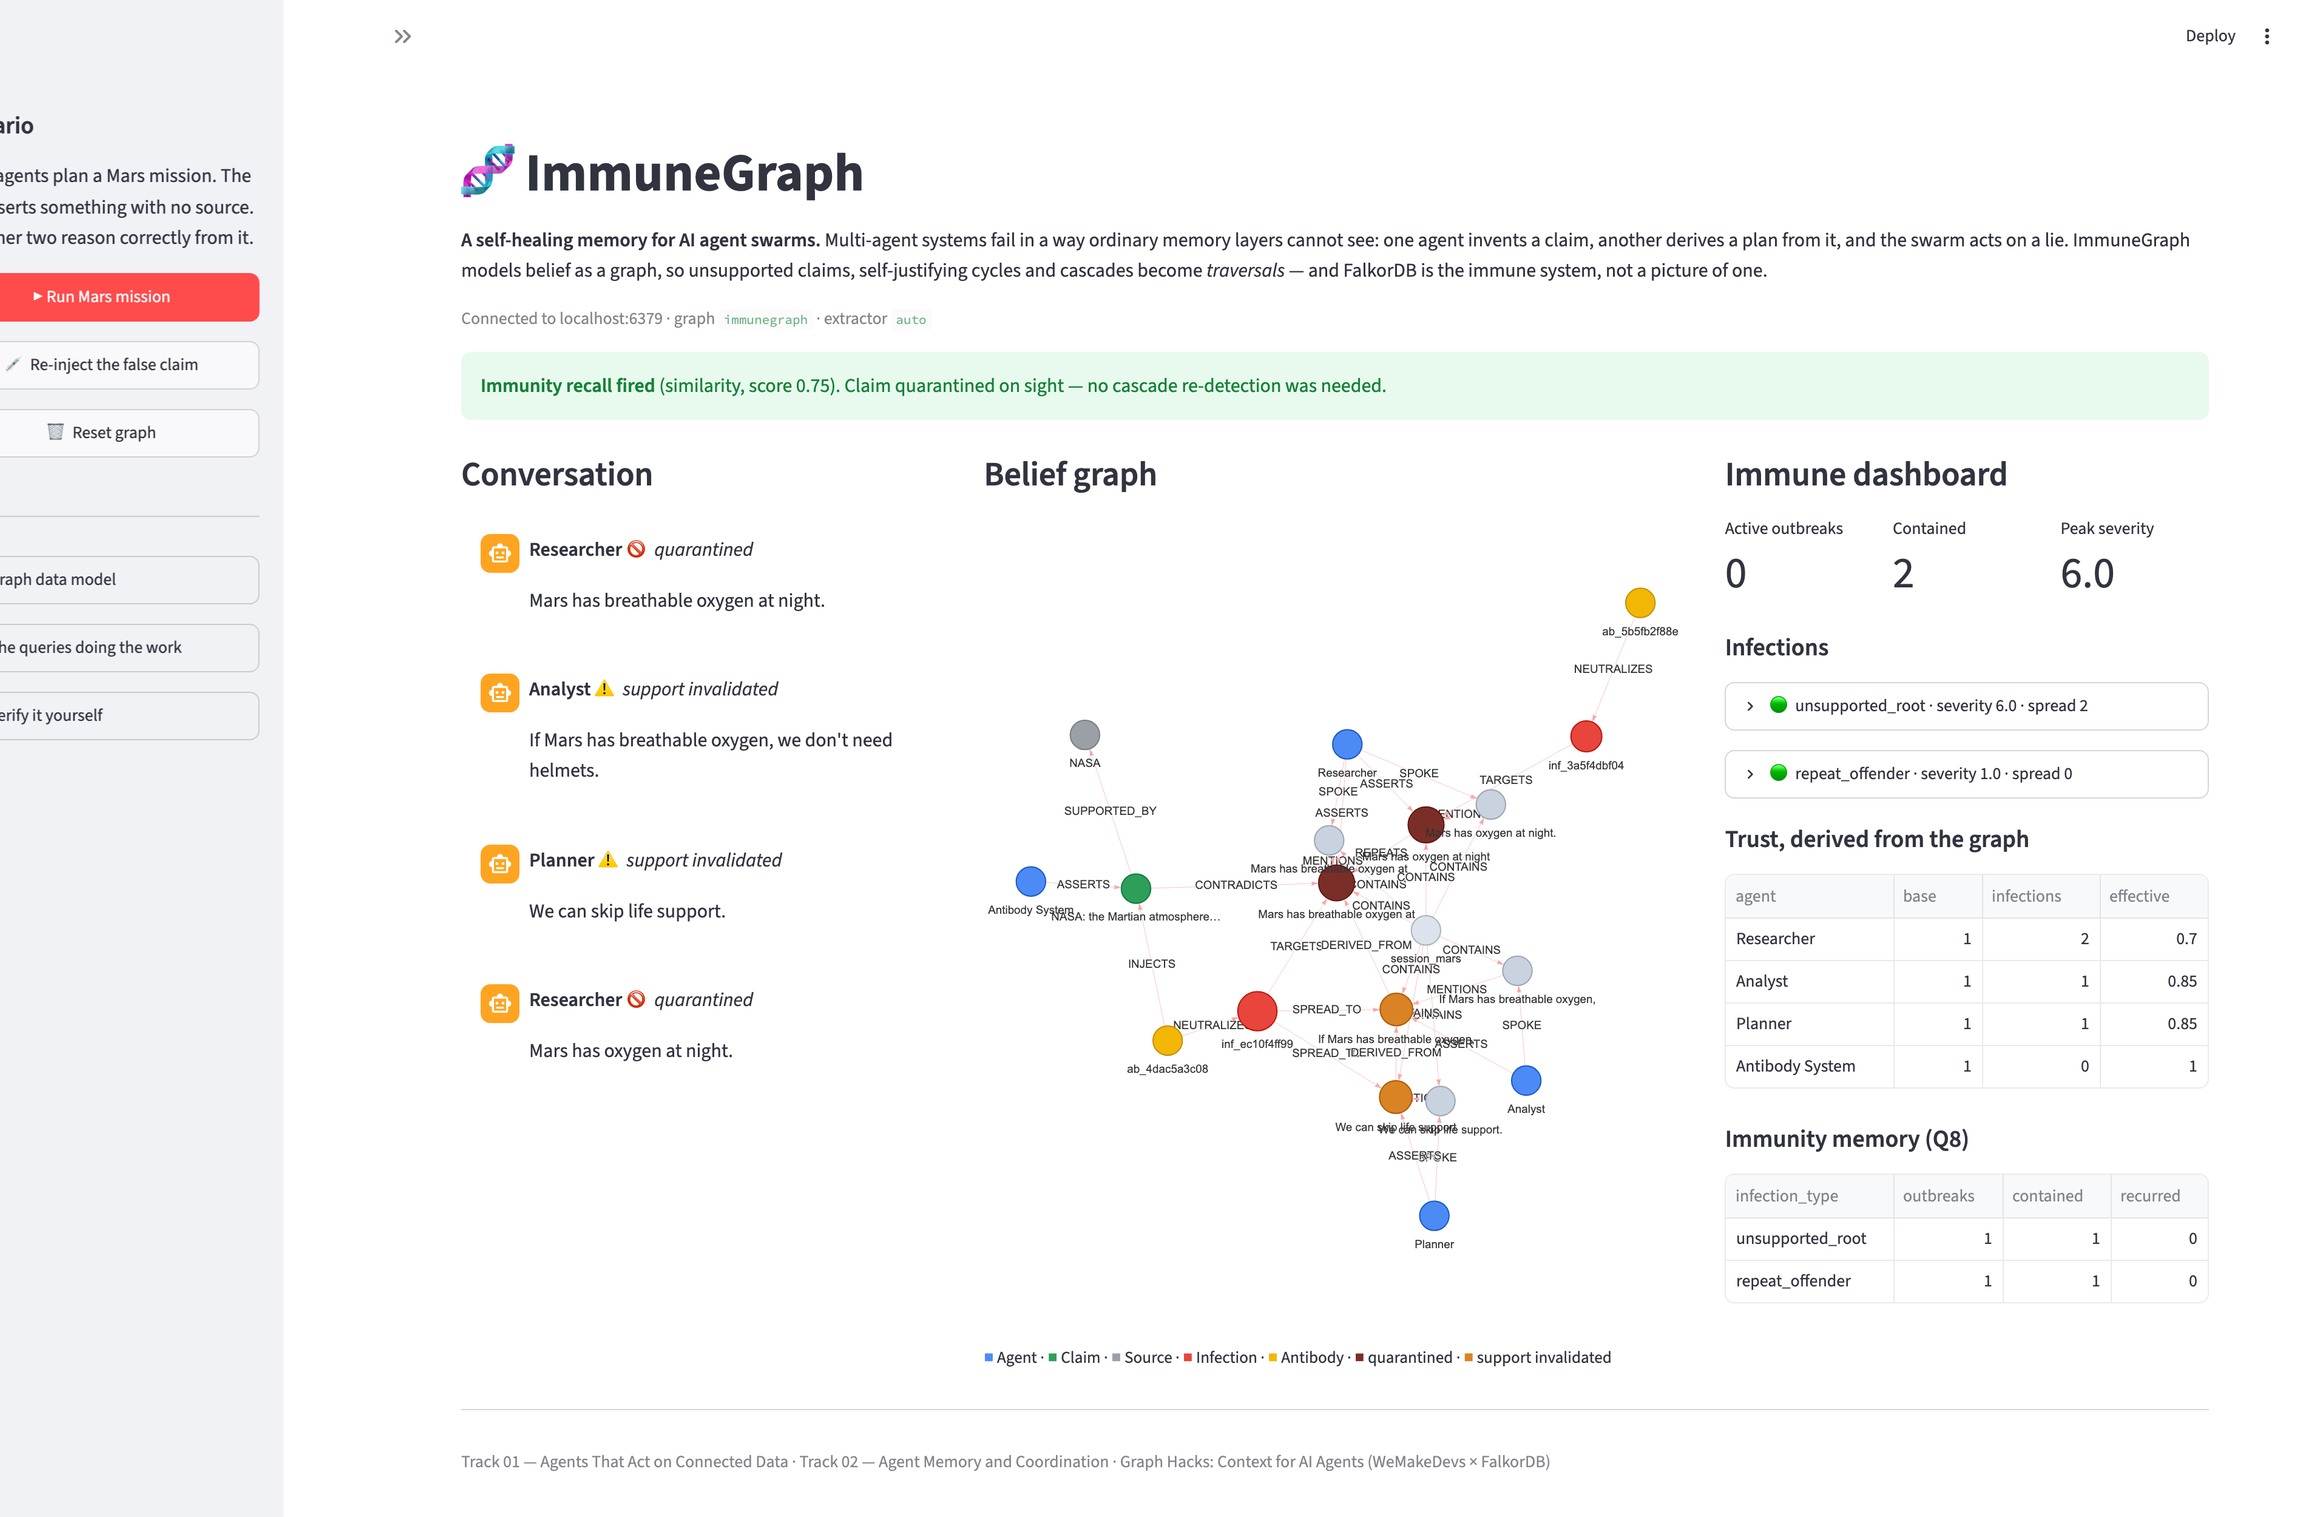
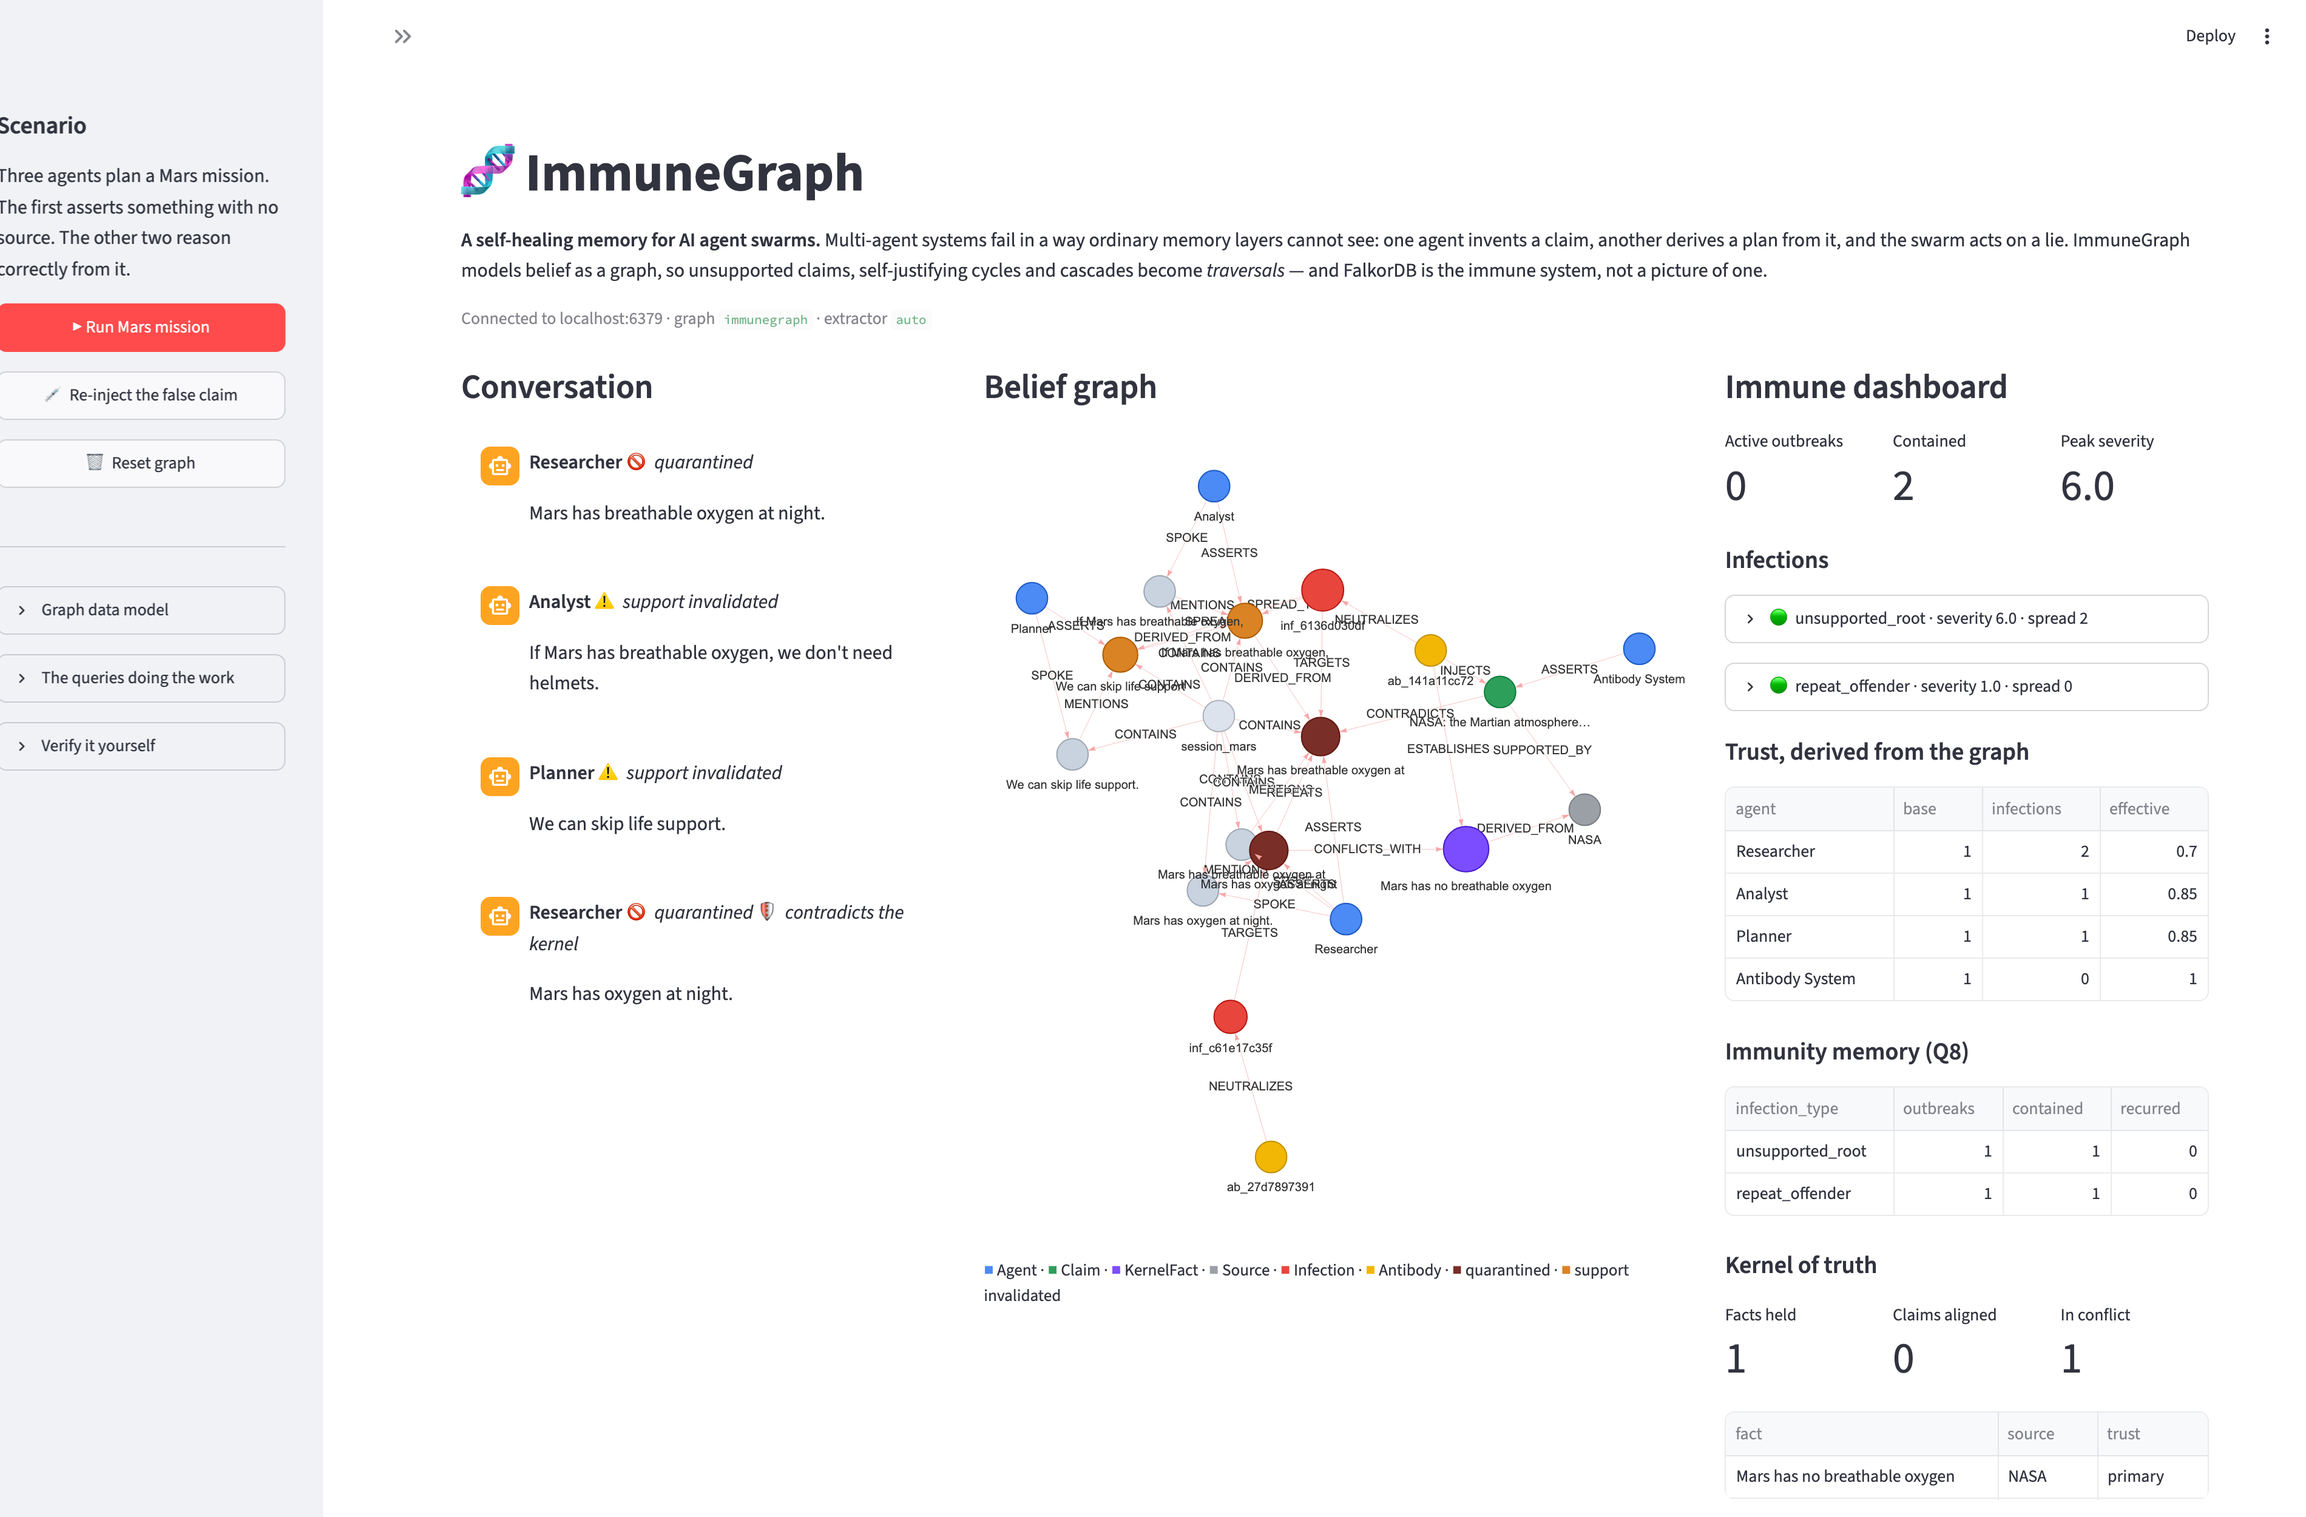
feat: kernel beats in the demo video, plus a fresh hero image
The recorded video now covers the kernel. It was also rebuilt to survive this
machine: headless Chrome kept exiting on its own during the fixed 24s warm-up
idle, so the recorder now polls until the dashboard actually exists and starts
immediately, runs Chrome with background-networking and component-update
disabled, and is driven by a retry loop. Two consecutive runs succeeded after
that, where three had failed before.

Two things the recording exposed that reading the code would not:

- The dashboard is now taller than the viewport, so outlining the kernel panel
  highlighted something the viewer could not see. Highlights now scroll the
  target into view.
- The viewport is 1680x1200 rather than 1680x1050, because the kernel panel
  pushed the immunity tables below the fold.

The hero image is regenerated from the live UI with the kernel populated, so it
shows the purple KernelFact node with its ESTABLISHES and DERIVED_FROM edges,
the contradicts-the-kernel badge, and the kernel panel with real provenance.

85 tests pass. Video: 90.5s, 1680x1200, 1.4MB, kept out of the repo.

diff --git a/scripts/record_demo.py b/scripts/record_demo.py
@@ -26,6 +26,7 @@ import os
 import shutil
 import subprocess
 import sys
+import time
 import urllib.request
 from dataclasses import dataclass
 from pathlib import Path
@@ -33,7 +34,7 @@ from pathlib import Path
 import websockets
 
 URL = "http://127.0.0.1:8501"
-WIDTH, HEIGHT = 1680, 1050
+WIDTH, HEIGHT = 1680, 1200
 FPS = 10
 JPEG_QUALITY = 78
 
@@ -195,6 +196,9 @@ def highlight_js(selector: str | None, index: int | None) -> str:
         e.style.borderRadius = '10px';
         e.classList.add('__ig_hl');
       });
+      // The dashboard is taller than the viewport now that it carries the kernel
+      // panel, so outlining an element is useless if the viewer cannot see it.
+      chosen[0].scrollIntoView({block: 'center', inline: 'nearest'});
       return 'OK';
     })()""" % (json.dumps(selector), target)
 
@@ -281,6 +285,25 @@ def ffmpeg_exe() -> str:
 # --------------------------------------------------------------------- record
 
 
+async def wait_for_app(cdp: "CDP", timeout: float = 90.0) -> bool:
+    """Block until the app has actually rendered, rather than sleeping blindly.
+
+    A fixed sleep must cover the worst case, which means Chrome idles on a static
+    page for most of it — and idle headless Chrome on this machine has been
+    observed to exit by itself. Polling starts the recording the moment the
+    dashboard exists and keeps that window of exposure short.
+    """
+    deadline = time.time() + timeout
+    while time.time() < deadline:
+        try:
+            if await cdp.js("!!document.querySelector('[data-testid=\"stMetric\"]')"):
+                return True
+        except Exception:  # noqa: BLE001 - the connection may still be settling
+            pass
+        await asyncio.sleep(0.5)
+    return False
+
+
 async def record(frames_dir: Path) -> int:
     targets = json.load(urllib.request.urlopen("http://127.0.0.1:9222/json"))
     page = next((t for t in targets if t.get("type") == "page"), None)
@@ -326,8 +349,10 @@ async def record(frames_dir: Path) -> int:
             {"width": WIDTH, "height": HEIGHT, "deviceScaleFactor": 1, "mobile": False},
         )
         await cdp.call("Page.navigate", {"url": URL})
-        print("Waiting for the app to finish its first render ...", flush=True)
-        await asyncio.sleep(24)
+        print("Waiting for the app to render ...", flush=True)
+        if not await wait_for_app(cdp):
+            raise RuntimeError("the app never rendered a dashboard within 90s")
+        print("App is up.", flush=True)
 
         await cdp.call(
             "Page.startScreencast",

diff --git a/docs/COMPLIANCE.md b/docs/COMPLIANCE.md
@@ -21,7 +21,7 @@ render from the remote.
 | # | Item | Owner | Why it blocks |
 | --- | --- | --- | --- |
 | 1 | **Confirm registration** | human | Rule 1. The schedule says registration is the one checkpoint you must act on. An unregistered team cannot submit. |
-| 2 | **Host the demo video** and link it | human | Rule 10 requires "a demo video showing the working project". It is recorded and verified (79.5s, captioned, reproducible via `scripts/record_demo.py`); it now needs uploading to YouTube/Loom and linking from `SUBMISSION.md`. Consider re-recording with narration — a silent captioned cut satisfies the rule but a narrated one argues rules 12/13 better. |
+| 2 | **Host the demo video** and link it | human | Rule 10 requires "a demo video showing the working project". It is recorded and verified (90.5s, captioned, reproducible via `scripts/record_demo.py`); it now needs uploading to YouTube/Loom and linking from `SUBMISSION.md`. Consider re-recording with narration — a silent captioned cut satisfies the rule but a narrated one argues rules 12/13 better. |
 | 3 | **Complete the rule 12/13 review** | human | Rules 12 and 13. You must be able to explain the model and every query, and demonstrate meaningful contribution. See `EXPLAINER.md`. |
 | 4 | **Finalise the AI disclosure** | human | Rule 11. The wording in the README must be true when you submit it. |
 | 5 | **Name both tracks at submission** | human | Rule 5: enter 01 and 02, and name *every* track you are entering. |
@@ -32,7 +32,7 @@ render from the remote.
 | --- | --- |
 | FalkorDB is the only datastore and does the detection | 13 Cypher queries, all executed against a live instance |
 | Every query actually runs | `python -m immunegraph.verify_queries` → "All non-optional queries executed and returned expected shapes" |
-| The product works end to end | `python -m immunegraph.demo` exits 0; 67 tests pass, twice consecutively |
+| The product works end to end | `python -m immunegraph.demo` exits 0; 85 tests pass, twice consecutively |
 | The documented quickstart works for a judge | verified by exporting a fresh clone with `git archive` and following the README verbatim against a recreated database |
 | Opening the app before Docker is running | shows "Cannot reach FalkorDB … start it with docker compose up -d", not a traceback |
 | High-concurrency reads and writes (Track 02) | 8 concurrent writers, 200 writes: 200/200 unique sequence numbers vs 37/200 for the naive read-then-write. See `tests/test_concurrency.py` |
@@ -128,7 +128,7 @@ pre-hackathon code exists, as the workspace was empty at session start.
 | README with setup instructions | ✅ | `../README.md` |
 | README with graph data model | ✅ | `../README.md` summary + `GRAPH_MODEL.md` |
 | The Cypher queries the product depends on | ✅ | `GRAPH_MODEL.md` §5 and `src/immunegraph/queries.py` |
-| Demo video | ✅ recorded, ⚠ needs hosting | **79.5s at 1680×1050.** Silent, with burned-in captions and the relevant panel outlined on each beat, so it explains itself without narration. Produced from the live UI by the committed `scripts/record_demo.py`. Deliberately not tracked in git (`*.mp4` is ignored) — host it and link it from `SUBMISSION.md`. |
+| Demo video | ✅ recorded, ⚠ needs hosting | **90.5s at 1680×1200.** Silent, with burned-in captions and the relevant panel outlined on each beat, so it explains itself without narration. Produced from the live UI by the committed `scripts/record_demo.py`. Deliberately not tracked in git (`*.mp4` is ignored) — host it and link it from `SUBMISSION.md`. |
 | Live deployment, or complete local setup | ✅ | `../README.md` Option A (Docker) and Option B (Cloud) |
 | The track being entered | ✅ | `../README.md` — tracks 01 and 02 |
 

diff --git a/docs/DEMO_SCRIPT.md b/docs/DEMO_SCRIPT.md
@@ -117,7 +117,25 @@ so this is where the pacing trap lives. See "Measured timings" at the top.*
 > was the claim we just refuted, so they stop being trustworthy. Quarantining the root isn't
 > enough; the whole cascade has to be contained."
 
-## 2:05 – 2:20 · Act IV — trust, derived
+## 2:05 – 2:35 · Act III.b — the kernel of truth
+
+**On screen:** scroll the dashboard to the **Kernel of truth** panel. This is the beat that
+distinguishes the project from a detector.
+
+> "Now the part I care most about. Everything up to here recorded what was *wrong* — an
+> infection, a quarantined claim, a trust score that dropped. But a swarm that only remembers
+> its mistakes learns nothing it can reuse.
+>
+> The correction cited NASA, so it became a **fact**. Not a note, not a log line — a node in
+> the graph, linked to the source that backs it, and to the antibody that established it.
+> That's the purple node: *Mars has no breathable oxygen*, citing NASA.
+>
+> And notice what did **not** become a fact. If the antibody had found no source, it would
+> have said so and established nothing. Inventing certainty would just be a new infection."
+
+**Point at** the `Facts held` metric and the fact table.
+
+## 2:35 – 2:50 · Act IV — trust, derived
 
 **On screen:** the **Trust** table.
 
@@ -140,8 +158,15 @@ click and keep talking — do not wait for something to happen.
 
 *The green banner is already there.*
 
-> "Recognised instantly. Matched by similarity at zero point seven five against the claim that
-> was quarantined earlier — and the claim is quarantined on sight. No cascade detection ran.
+> "Recognised instantly — and look at *why*. The sanitiser matched this claim against the
+> kernel fact in about five milliseconds. No extraction call, no cascade scan. Compare that
+> with the three seconds the original detection needed.
+>
+> That's the difference between the two halves of the immune system. Detection finds lies the
+> swarm has never seen, by walking the support structure — thorough, and it gets more
+> expensive as the graph grows. The kernel recognises lies it already knows, by comparison,
+> and it doesn't. The swarm is measurably harder to fool than it was ninety seconds ago.
+>
 > Click it again and it matches on the fingerprint hash instead, and the answer is immediate.
 > The swarm does not get fooled twice."
 
@@ -162,7 +187,7 @@ click and keep talking — do not wait for something to happen.
 > the antibody worked.
 >
 > Every query here has been executed against a live instance — `verify_queries` runs all
-> thirteen, and the test suite has sixty-seven tests. FalkorDB wasn't a place to store the
+> thirteen, and the test suite has eighty-five tests. FalkorDB wasn't a place to store the
 > answer. It was the thing that worked out the answer."
 
 ---

diff --git a/docs/SUBMISSION.md b/docs/SUBMISSION.md
@@ -56,7 +56,7 @@ swarm develops immunity" into a number.
 | Item | Value |
 | --- | --- |
 | Repository | <https://github.com/TCPCore/immunity> — public, 30 commits on `main` |
-| Demo video | **Recorded and verified** — 79.5s, 1680×1050, silent with burned-in captions and per-beat panel highlighting. Upload it (YouTube/Loom, public or unlisted) and paste the URL here. Reproducible with `python scripts/record_demo.py`; `docs/DEMO_SCRIPT.md` is the shot list. |
+| Demo video | **Recorded and verified** — 90.5s, 1680×1200, silent with burned-in captions and per-beat panel highlighting. Upload it (YouTube/Loom, public or unlisted) and paste the URL here. Reproducible with `python scripts/record_demo.py`; `docs/DEMO_SCRIPT.md` is the shot list. |
 | Live deployment | Local Docker / FalkorDB Cloud; see below |
 
 ## Setup (rule 10 — a live deployment, or complete local setup instructions)
@@ -69,7 +69,7 @@ uv venv --python 3.12 .venv
 uv pip install --python .venv/bin/python -e ".[dev]"   # installs the package itself
 cp .env.example .env                                   # optional: add OPENAI_API_KEY
 .venv/bin/python -m immunegraph.verify_queries          # executes all 13 queries
-.venv/bin/python -m pytest                              # 67 tests
+.venv/bin/python -m pytest                              # 85 tests
 .venv/bin/streamlit run app.py
 ```
 
@@ -113,7 +113,7 @@ the written form of that explanation.
 - [x] README with setup instructions
 - [x] README with the graph data model
 - [x] The Cypher queries the product depends on — `docs/GRAPH_MODEL.md` §5, `src/immunegraph/queries.py`, and the four headline queries inlined in the README
-- [x] **Demo video** recorded (79.5s, captioned, verified beat by beat) — **still needs uploading and a link here**
+- [x] **Demo video** recorded (90.5s, captioned, verified beat by beat) — **still needs uploading and a link here**
 - [x] Complete local setup instructions (Docker) and a Cloud path
 - [x] Tracks named — 01 and 02
 
@@ -126,7 +126,7 @@ the written form of that explanation.
 - [ ] **Rule 12/13 review complete** — see `COMPLIANCE.md` for the five concrete steps
 - [x] MIT licence present
 - [x] `python -m immunegraph.verify_queries` passes
-- [x] `python -m pytest` passes (67 tests)
+- [x] `python -m pytest` passes (85 tests)
 
 **Final five minutes**
 

diff --git a/README.md b/README.md
@@ -281,7 +281,7 @@ A Cypher query that has never been executed is not a feature. Three layers of pr
 
 ```bash
 .venv/bin/python -m immunegraph.verify_queries   # every query, against a live instance
-.venv/bin/python -m pytest                       # 67 tests
+.venv/bin/python -m pytest                       # 85 tests
 .venv/bin/python -m immunegraph.demo             # the full arc; exits non-zero on failure
 ```
 
